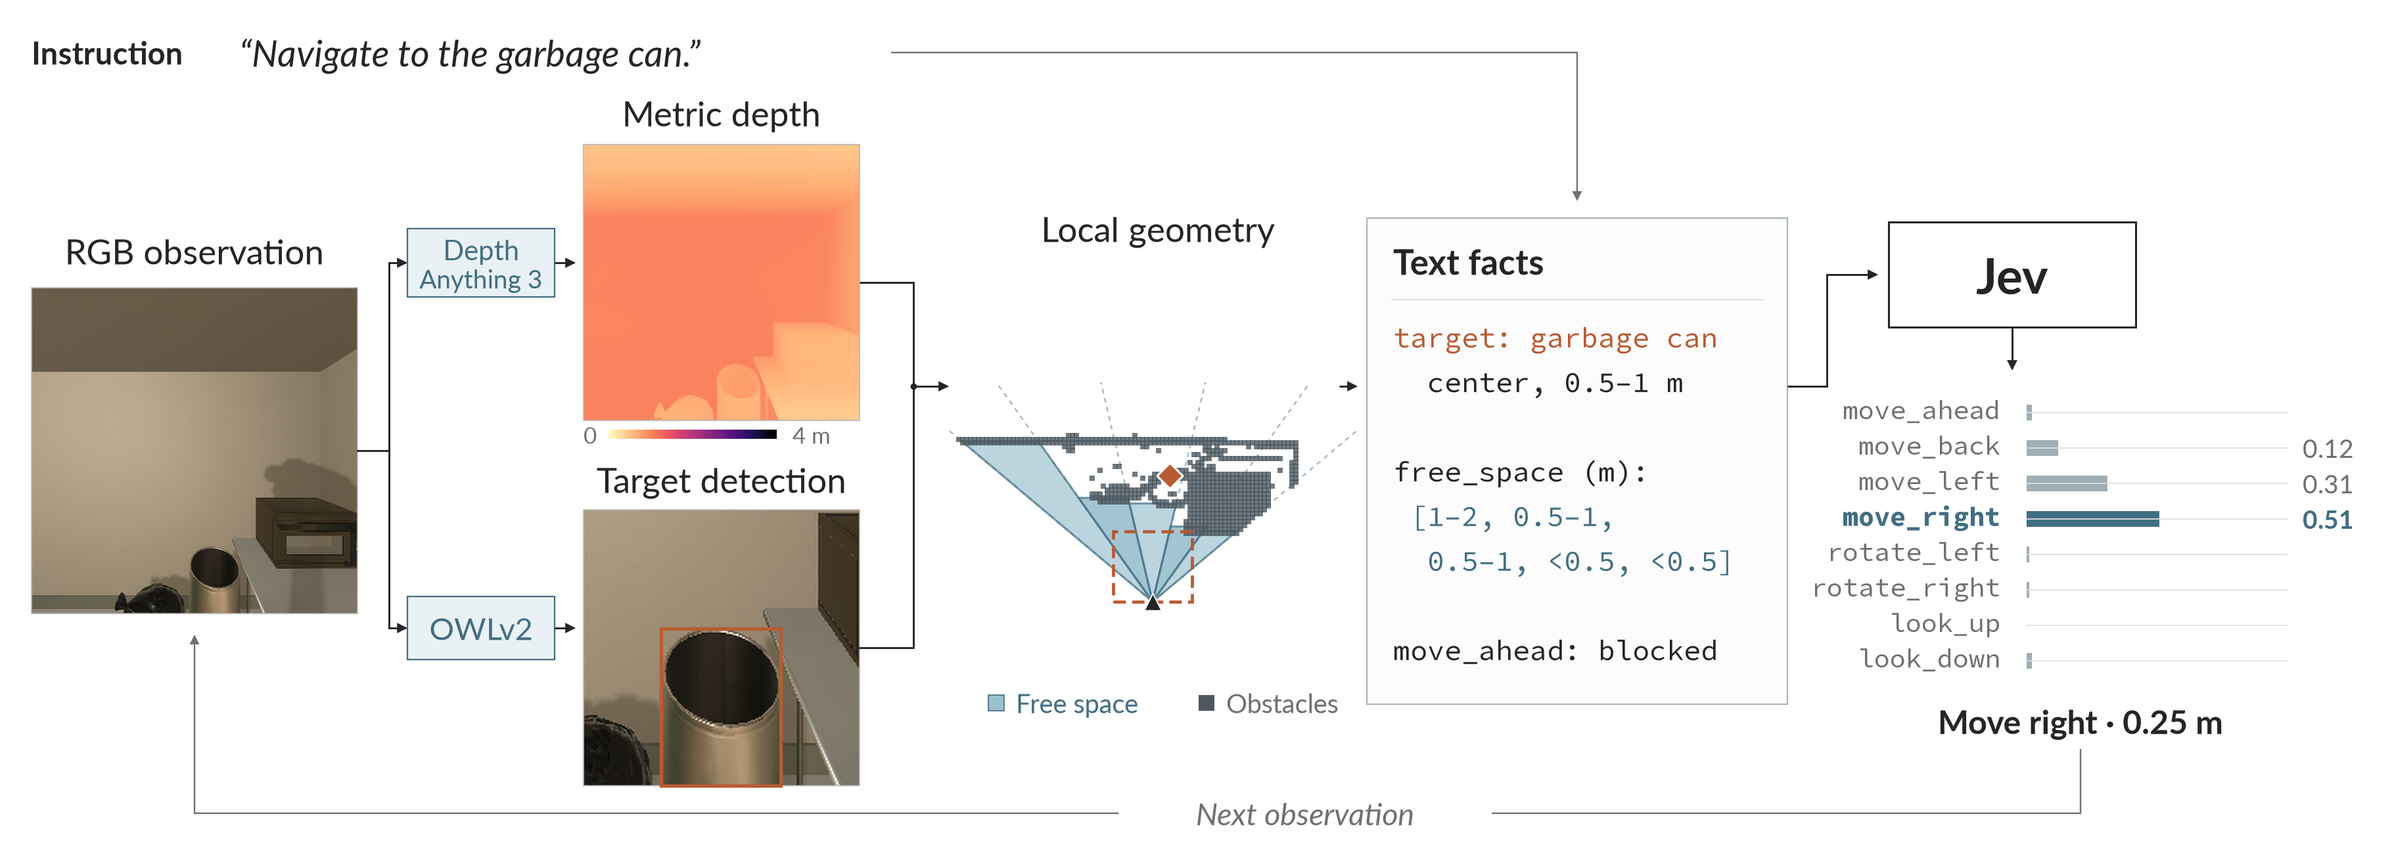
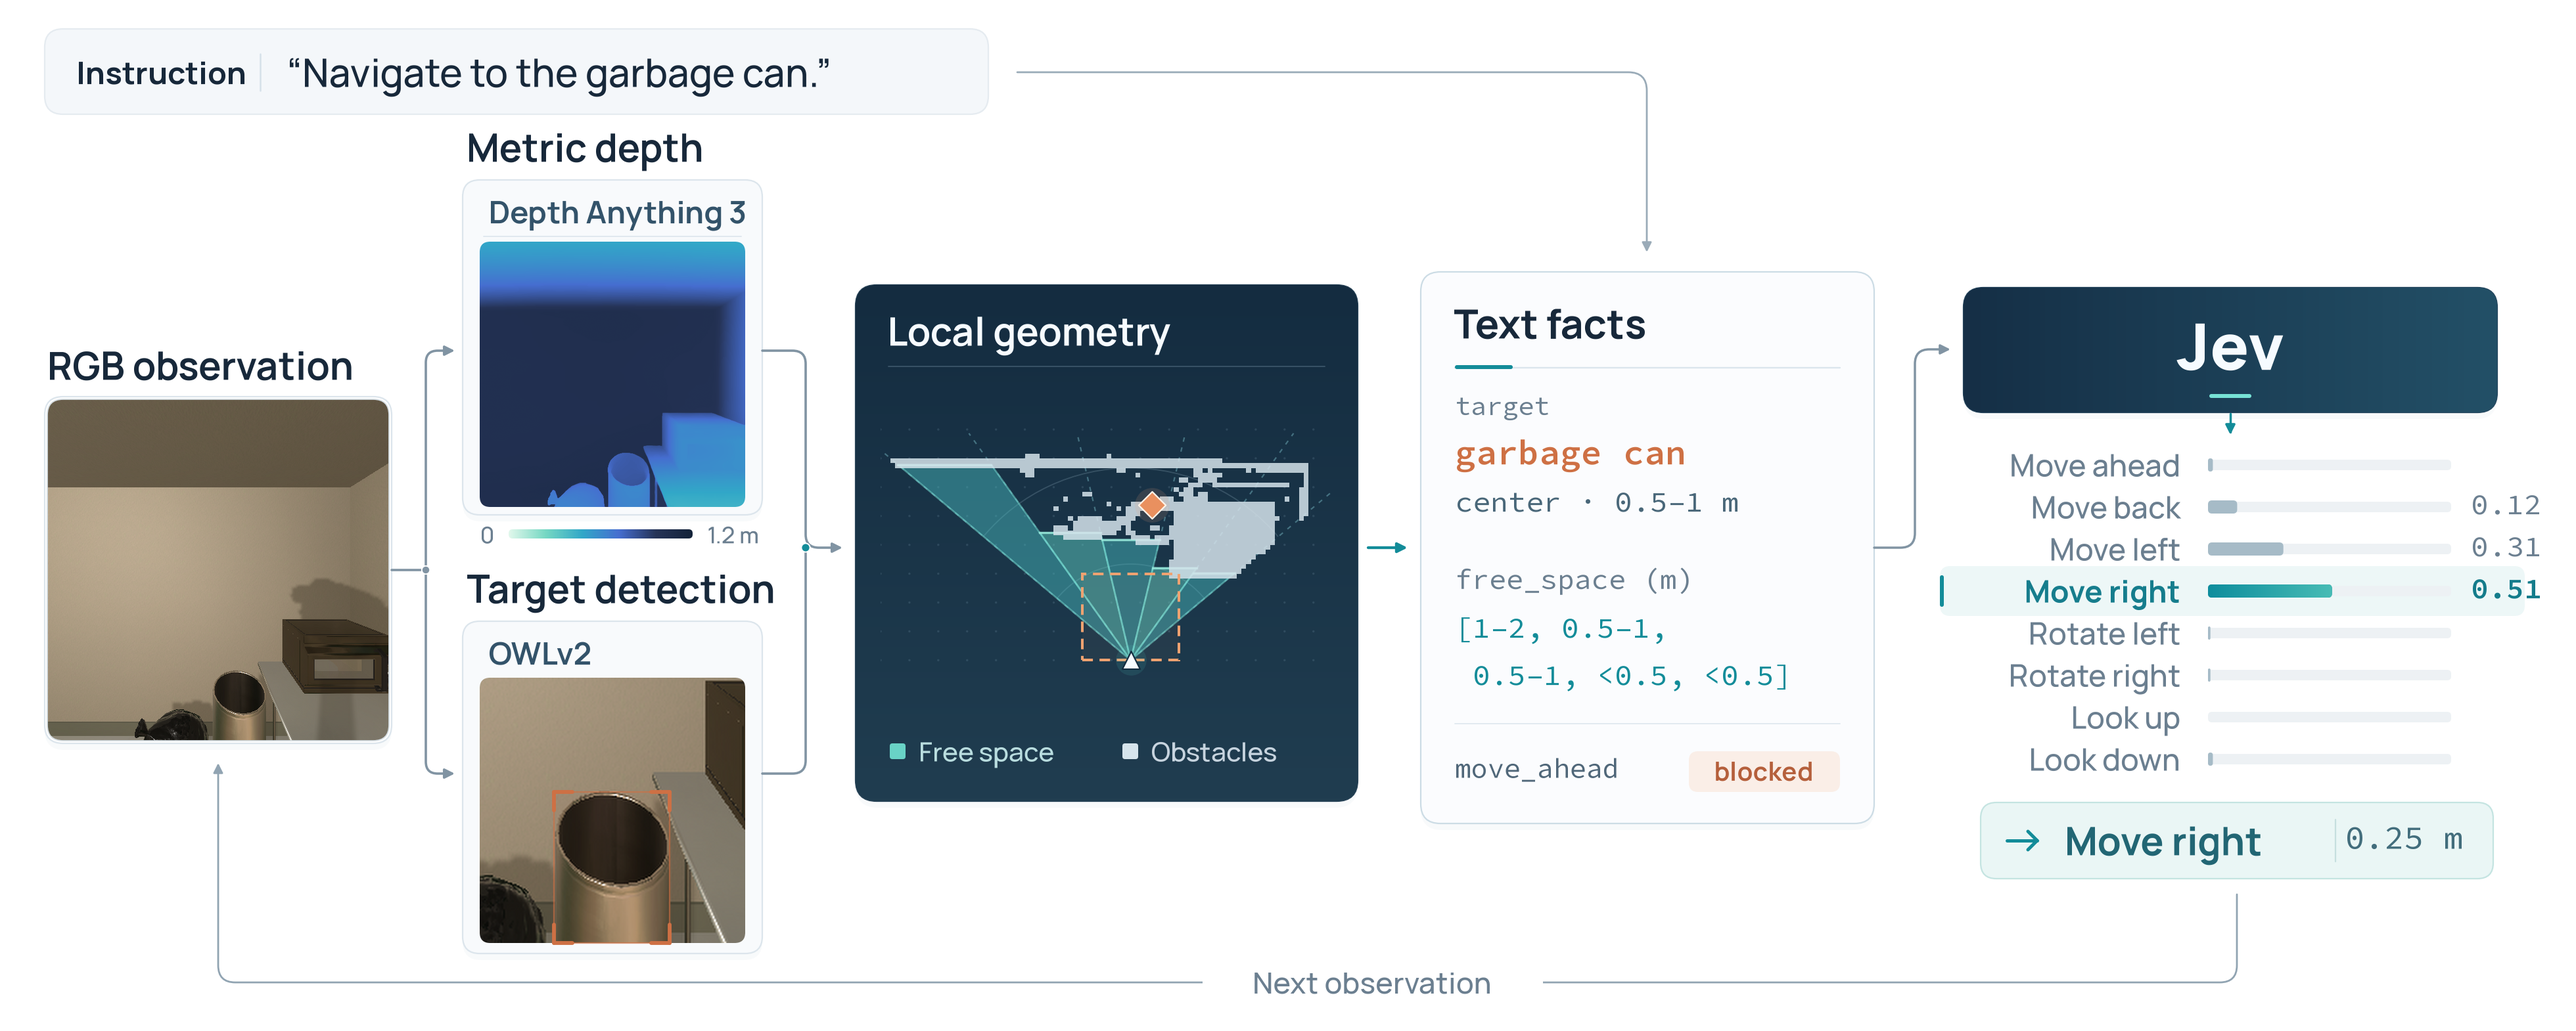
Simplify dependency setup and refresh pipeline figure

diff --git a/tests/test_config.py b/tests/test_config.py
@@ -1,0 +1,64 @@
+"""Launch configuration works before dependencies are installed."""
+
+import json
+import os
+import shutil
+import subprocess
+import sys
+import tempfile
+import unittest
+from pathlib import Path
+
+from depthjev import config
+
+
+class ConfigTests(unittest.TestCase):
+    def exported_settings(self, root, overrides=None):
+        env = {key: value for key, value in os.environ.items() if not key.startswith("DEPTHJEV_")}
+        env.update(overrides or {})
+        program = (
+            "import json, os; print(json.dumps({k: v for k, v in os.environ.items() if k.startswith('DEPTHJEV_')}))"
+        )
+        command = 'set -eu\nCFG=$("$1" -S -m depthjev.config)\neval "$CFG"\n"$1" -S -c "$2"'
+        result = subprocess.run(
+            ["bash", "-c", command, "config-check", sys.executable, program],
+            cwd=root,
+            env=env,
+            text=True,
+            capture_output=True,
+            check=True,
+        )
+        return json.loads(result.stdout)
+
+    def test_defaults_load_without_site_packages(self):
+        settings = json.loads(config.CONFIG.read_text())
+        exported = self.exported_settings(config.REPO)
+        for key, value in settings.items():
+            if key.endswith(config.PATH_SUFFIXES):
+                value = config.REPO / value
+            self.assertEqual(exported[f"DEPTHJEV_{key.upper()}"], str(value))
+
+    def test_environment_overrides_keep_their_values(self):
+        overrides = {"DEPTHJEV_PORT": "23400", "DEPTHJEV_SERVER_ENV": "custom environment"}
+        exported = self.exported_settings(config.REPO, overrides)
+        for key, value in overrides.items():
+            self.assertEqual(exported[key], value)
+
+    def test_relocated_checkout_and_values_with_shell_characters(self):
+        with tempfile.TemporaryDirectory() as directory:
+            root = Path(directory) / "checkout with spaces and 'quotes'"
+            (root / "depthjev").mkdir(parents=True)
+            for name in ("__init__.py", "config.py"):
+                shutil.copy2(config.REPO / "depthjev" / name, root / "depthjev" / name)
+            settings = json.loads(config.CONFIG.read_text())
+            settings["jev_model"] = "model $(touch unexpected) `touch unwanted`"
+            (root / "config.json").write_text(json.dumps(settings))
+            exported = self.exported_settings(root)
+            self.assertEqual(exported["DEPTHJEV_SERVER_ENV"], str(root / "envs/depthjev"))
+            self.assertEqual(exported["DEPTHJEV_JEV_MODEL"], settings["jev_model"])
+            self.assertFalse((root / "unexpected").exists())
+            self.assertFalse((root / "unwanted").exists())
+
+
+if __name__ == "__main__":
+    unittest.main()

diff --git a/depthjev/config.py b/depthjev/config.py
@@ -1,23 +1,16 @@
-"""Print the [tool.depthjev] settings of pyproject.toml as shell code, for eval "$(python3 -m depthjev.config)" run from the repo root.
+"""Print config.json settings as shell code for the launch scripts.
 
-Key k becomes the exported variable DEPTHJEV_<K>; a variable already set in the environment keeps its value. Path settings, the keys ending in _env, _dir or _file, are made absolute: ~ expands to the home directory and relative paths are taken from the repository root. Works with Python 3.11+ (tomllib) and with older Python 3 interpreters that have tomli or pip, which vendors tomli.
+Key k becomes the exported variable DEPTHJEV_<K>; a variable already set in the environment keeps its value. Path settings, the keys ending in _env, _dir or _file, are made absolute: ~ expands to the home directory and relative paths are taken from the repository root. Uses only the standard library and works in both Python environments.
 """
 
 from __future__ import annotations
 
+import json
 import shlex
 from pathlib import Path
 
-try:
-    import tomllib
-except ImportError:
-    try:
-        import tomli as tomllib
-    except ImportError:
-        from pip._vendor import tomli as tomllib
-
 REPO = Path(__file__).resolve().parents[1]
-PYPROJECT = REPO / "pyproject.toml"
+CONFIG = REPO / "config.json"
 PATH_SUFFIXES = ("_env", "_dir", "_file")
 
 
@@ -32,8 +25,8 @@ def shell_lines(settings: dict) -> list[str]:
 
 
 def main():
-    with open(PYPROJECT, "rb") as f:
-        settings = tomllib.load(f)["tool"]["depthjev"]
+    with open(CONFIG, encoding="utf-8") as f:
+        settings = json.load(f)
     print("\n".join(shell_lines(settings)))
 
 

diff --git a/README.md b/README.md
@@ -28,13 +28,11 @@
 
 ## 🚀 Getting Started
 
-**1. Dependencies and weights**
+**1. Clone dependencies**
 
 ```bash
-git clone https://github.com/EmbodiedBench/EmbodiedBench.git repos/EmbodiedBench && git -C repos/EmbodiedBench checkout 9be4e98
-git clone https://github.com/ByteDance-Seed/Depth-Anything-3.git repos/Depth-Anything-3 && git -C repos/Depth-Anything-3 checkout 3d835ec
-hf download depth-anything/DA3METRIC-LARGE --local-dir checkpoints/DA3METRIC-LARGE
-hf download google/owlv2-base-patch16-ensemble --local-dir checkpoints/owlv2-base-patch16-ensemble
+git clone https://github.com/EmbodiedBench/EmbodiedBench.git repos/EmbodiedBench
+git clone https://github.com/ByteDance-Seed/Depth-Anything-3.git repos/Depth-Anything-3
 ```
 
 **2. Server environment**
@@ -42,9 +40,9 @@ hf download google/owlv2-base-patch16-ensemble --local-dir checkpoints/owlv2-bas
 ```bash
 conda create -y -p envs/depthjev python=3.11 pip
 conda activate ./envs/depthjev
-pip install torch==2.8.0 torchvision==0.23.0 xformers==0.0.32.post2 --index-url https://download.pytorch.org/whl/cu128
-SETUPTOOLS_SCM_PRETEND_VERSION=0.0.0 pip install -e repos/Depth-Anything-3
-pip install -e .
+pip install -r requirements.txt
+hf download depth-anything/DA3METRIC-LARGE --local-dir checkpoints/DA3METRIC-LARGE
+hf download google/owlv2-base-patch16-ensemble --local-dir checkpoints/owlv2-base-patch16-ensemble
 ```
 
 **3. Evaluation environment**
@@ -52,12 +50,7 @@ pip install -e .
 ```bash
 conda create -y -p envs/depthjev-eval python=3.9.21 pip
 conda activate ./envs/depthjev-eval
-pip install torch==2.5.1 torchvision==0.20.1 --index-url https://download.pytorch.org/whl/cpu
-pip install gym==0.26.2 numpy==1.26.4 opencv-python-headless==4.10.0.84 pillow==10.4.0 requests==2.32.3 \
-    hydra-core==1.3.2 omegaconf==2.3.0 pyyaml==6.0.2 tqdm==4.67.1 openai==1.58.1 anthropic==0.43.1 \
-    google-generativeai==0.8.3 pydantic==2.10.5 python-xlib==0.33 progressbar2==4.5.0 botocore==1.35.90 \
-    aws-requests-auth==0.4.3 msgpack==1.1.0 flask==3.1.0 werkzeug==3.1.3 matplotlib==3.9.4
-pip install --no-deps ai2thor==5.0.0
+pip install -r requirements-eval.txt
 ```
 
 **4. Headless rendering for AI2-THOR**
@@ -104,7 +97,7 @@ The server listens on `127.0.0.1` by default. For an evaluator on another machin
 
 ## ⚙ Configuration
 
-Settings are defined in [pyproject.toml](pyproject.toml).
+Settings are defined in [config.json](config.json).
 
 
 | Key                           | Default                               |
@@ -230,7 +223,7 @@ depthjev/
 ├── facts.py          # the state Jev reads, move checks, search status
 ├── jev_client.py     # the three Jev Choices, rules, iTHOR types, detector aliases
 ├── actions.py        # the eight EB-Navigation actions
-├── config.py         # [tool.depthjev] → shell variables
+├── config.py         # config.json → shell variables
 ├── eb_launch.py      # starts EmbodiedBench in the evaluation environment
 └── report.py         # latency, success and per-episode tables
 scripts/

diff --git a/README_zh.md b/README_zh.md
@@ -32,13 +32,11 @@
 
 所有命令都在仓库根目录执行。
 
-**1. 依赖和权重**
+**1. 克隆依赖仓库**
 
 ```bash
-git clone https://github.com/EmbodiedBench/EmbodiedBench.git repos/EmbodiedBench && git -C repos/EmbodiedBench checkout 9be4e98
-git clone https://github.com/ByteDance-Seed/Depth-Anything-3.git repos/Depth-Anything-3 && git -C repos/Depth-Anything-3 checkout 3d835ec
-hf download depth-anything/DA3METRIC-LARGE --local-dir checkpoints/DA3METRIC-LARGE
-hf download google/owlv2-base-patch16-ensemble --local-dir checkpoints/owlv2-base-patch16-ensemble
+git clone https://github.com/EmbodiedBench/EmbodiedBench.git repos/EmbodiedBench
+git clone https://github.com/ByteDance-Seed/Depth-Anything-3.git repos/Depth-Anything-3
 ```
 
 **2. 服务端环境**
@@ -46,9 +44,9 @@ hf download google/owlv2-base-patch16-ensemble --local-dir checkpoints/owlv2-bas
 ```bash
 conda create -y -p envs/depthjev python=3.11 pip
 conda activate ./envs/depthjev
-pip install torch==2.8.0 torchvision==0.23.0 xformers==0.0.32.post2 --index-url https://download.pytorch.org/whl/cu128
-SETUPTOOLS_SCM_PRETEND_VERSION=0.0.0 pip install -e repos/Depth-Anything-3
-pip install -e .
+pip install -r requirements.txt
+hf download depth-anything/DA3METRIC-LARGE --local-dir checkpoints/DA3METRIC-LARGE
+hf download google/owlv2-base-patch16-ensemble --local-dir checkpoints/owlv2-base-patch16-ensemble
 ```
 
 **3. 评测端环境**
@@ -56,12 +54,7 @@ pip install -e .
 ```bash
 conda create -y -p envs/depthjev-eval python=3.9.21 pip
 conda activate ./envs/depthjev-eval
-pip install torch==2.5.1 torchvision==0.20.1 --index-url https://download.pytorch.org/whl/cpu
-pip install gym==0.26.2 numpy==1.26.4 opencv-python-headless==4.10.0.84 pillow==10.4.0 requests==2.32.3 \
-    hydra-core==1.3.2 omegaconf==2.3.0 pyyaml==6.0.2 tqdm==4.67.1 openai==1.58.1 anthropic==0.43.1 \
-    google-generativeai==0.8.3 pydantic==2.10.5 python-xlib==0.33 progressbar2==4.5.0 botocore==1.35.90 \
-    aws-requests-auth==0.4.3 msgpack==1.1.0 flask==3.1.0 werkzeug==3.1.3 matplotlib==3.9.4
-pip install --no-deps ai2thor==5.0.0
+pip install -r requirements-eval.txt
 ```
 
 **4. AI2-THOR 无头渲染**
@@ -106,7 +99,7 @@ SERVER_URL=http://127.0.0.1:23333/process bash scripts/eval.sh exp_name=dev eval
 
 ## ⚙ 配置
 
-配置位于 [pyproject.toml](pyproject.toml)。
+配置位于 [config.json](config.json)。
 
 | 键 | 默认值 |
 |---|---|
@@ -230,7 +223,7 @@ depthjev/
 ├── facts.py          # Jev 读的状态、移动检查、搜索状态
 ├── jev_client.py     # 三个 Jev Choice、规则、iTHOR 类型表、检测别名
 ├── actions.py        # EB-Navigation 的 8 个动作
-├── config.py         # [tool.depthjev] → shell 变量
+├── config.py         # config.json → shell 变量
 ├── eb_launch.py      # 在评测环境里启动 EmbodiedBench
 └── report.py         # 延迟、成功率和逐回合表
 scripts/
